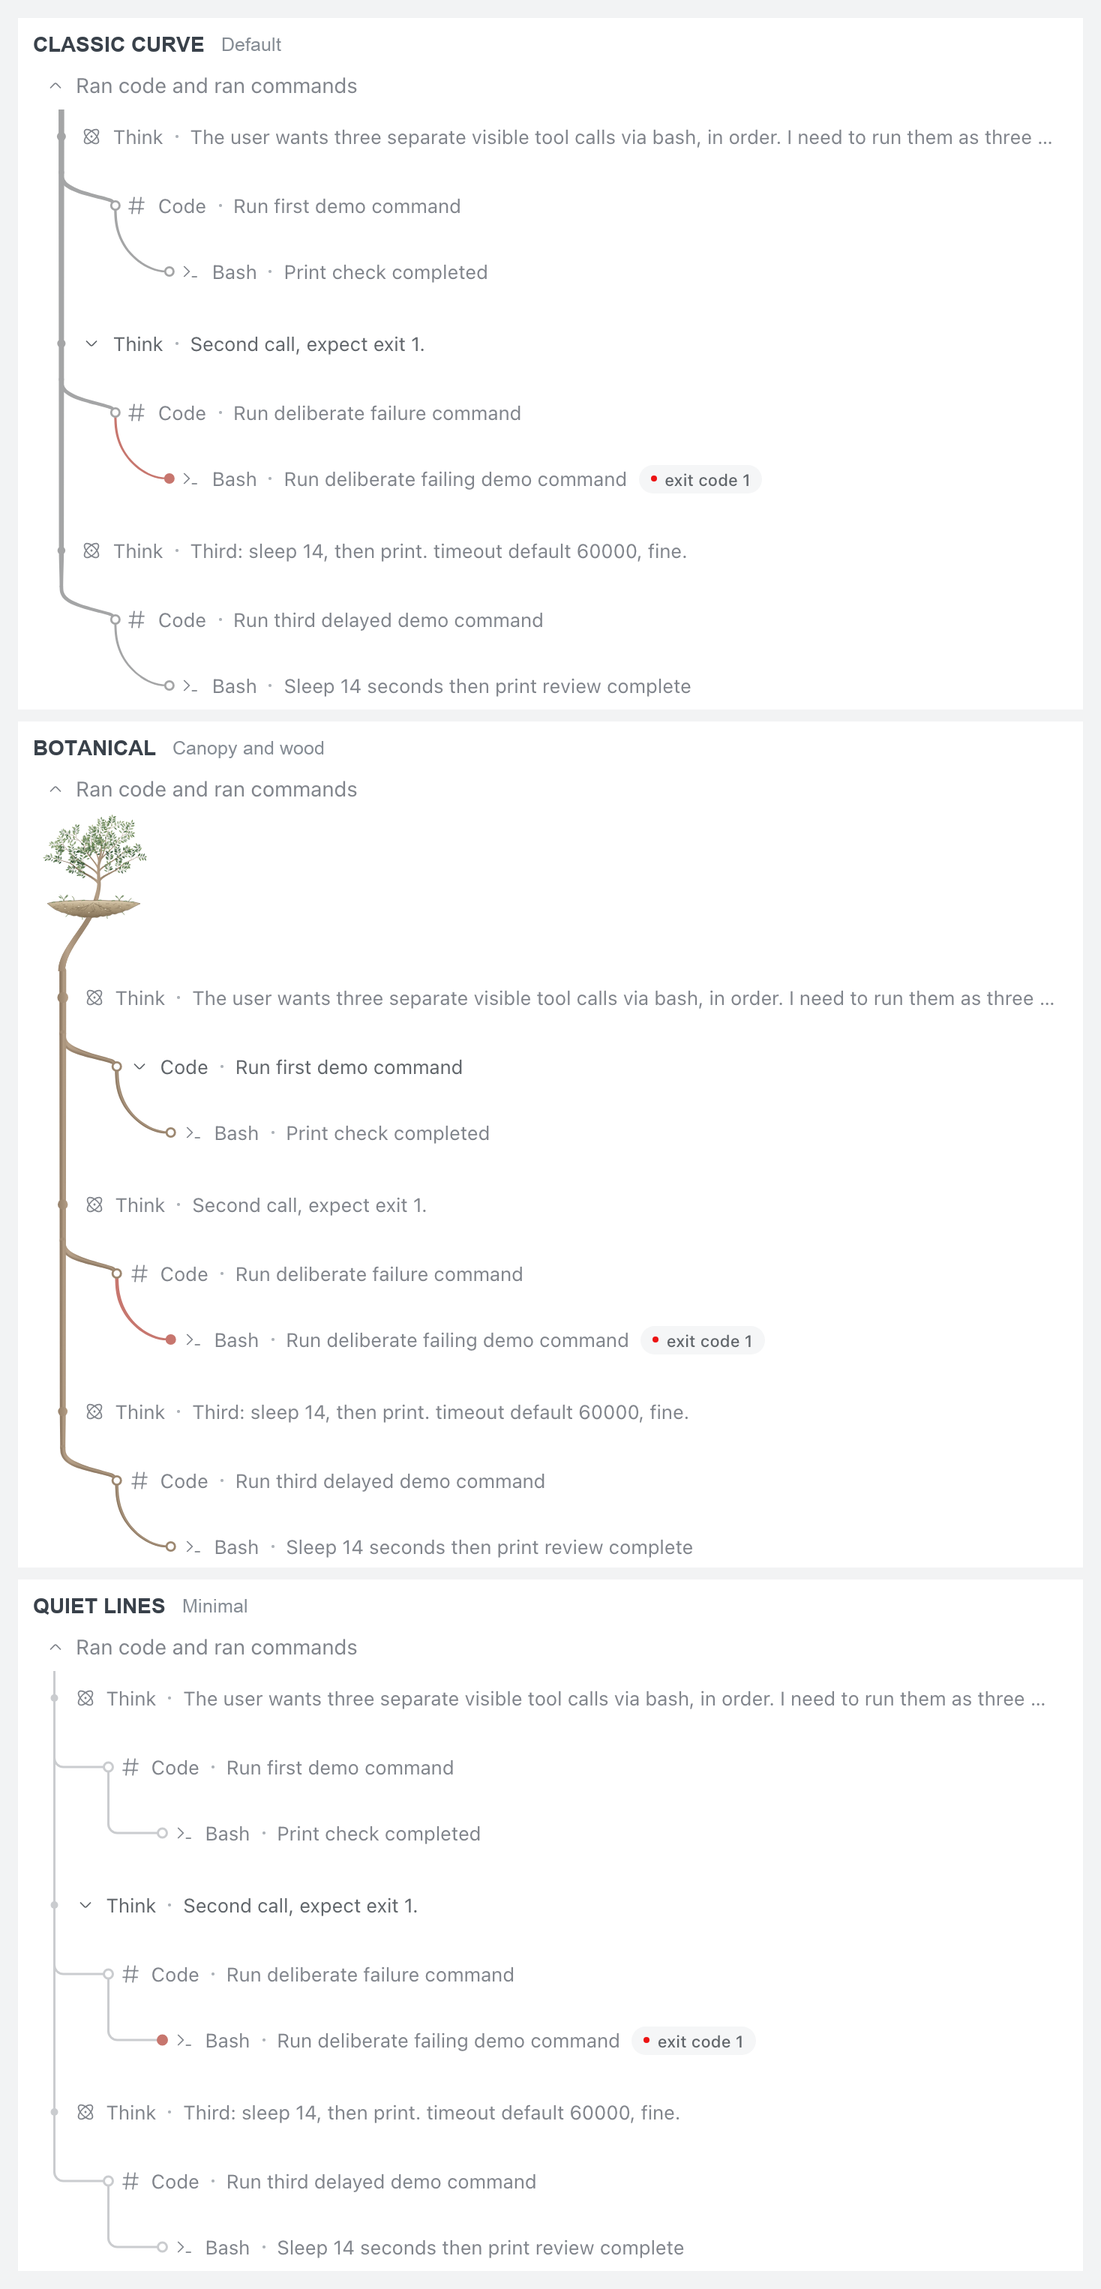
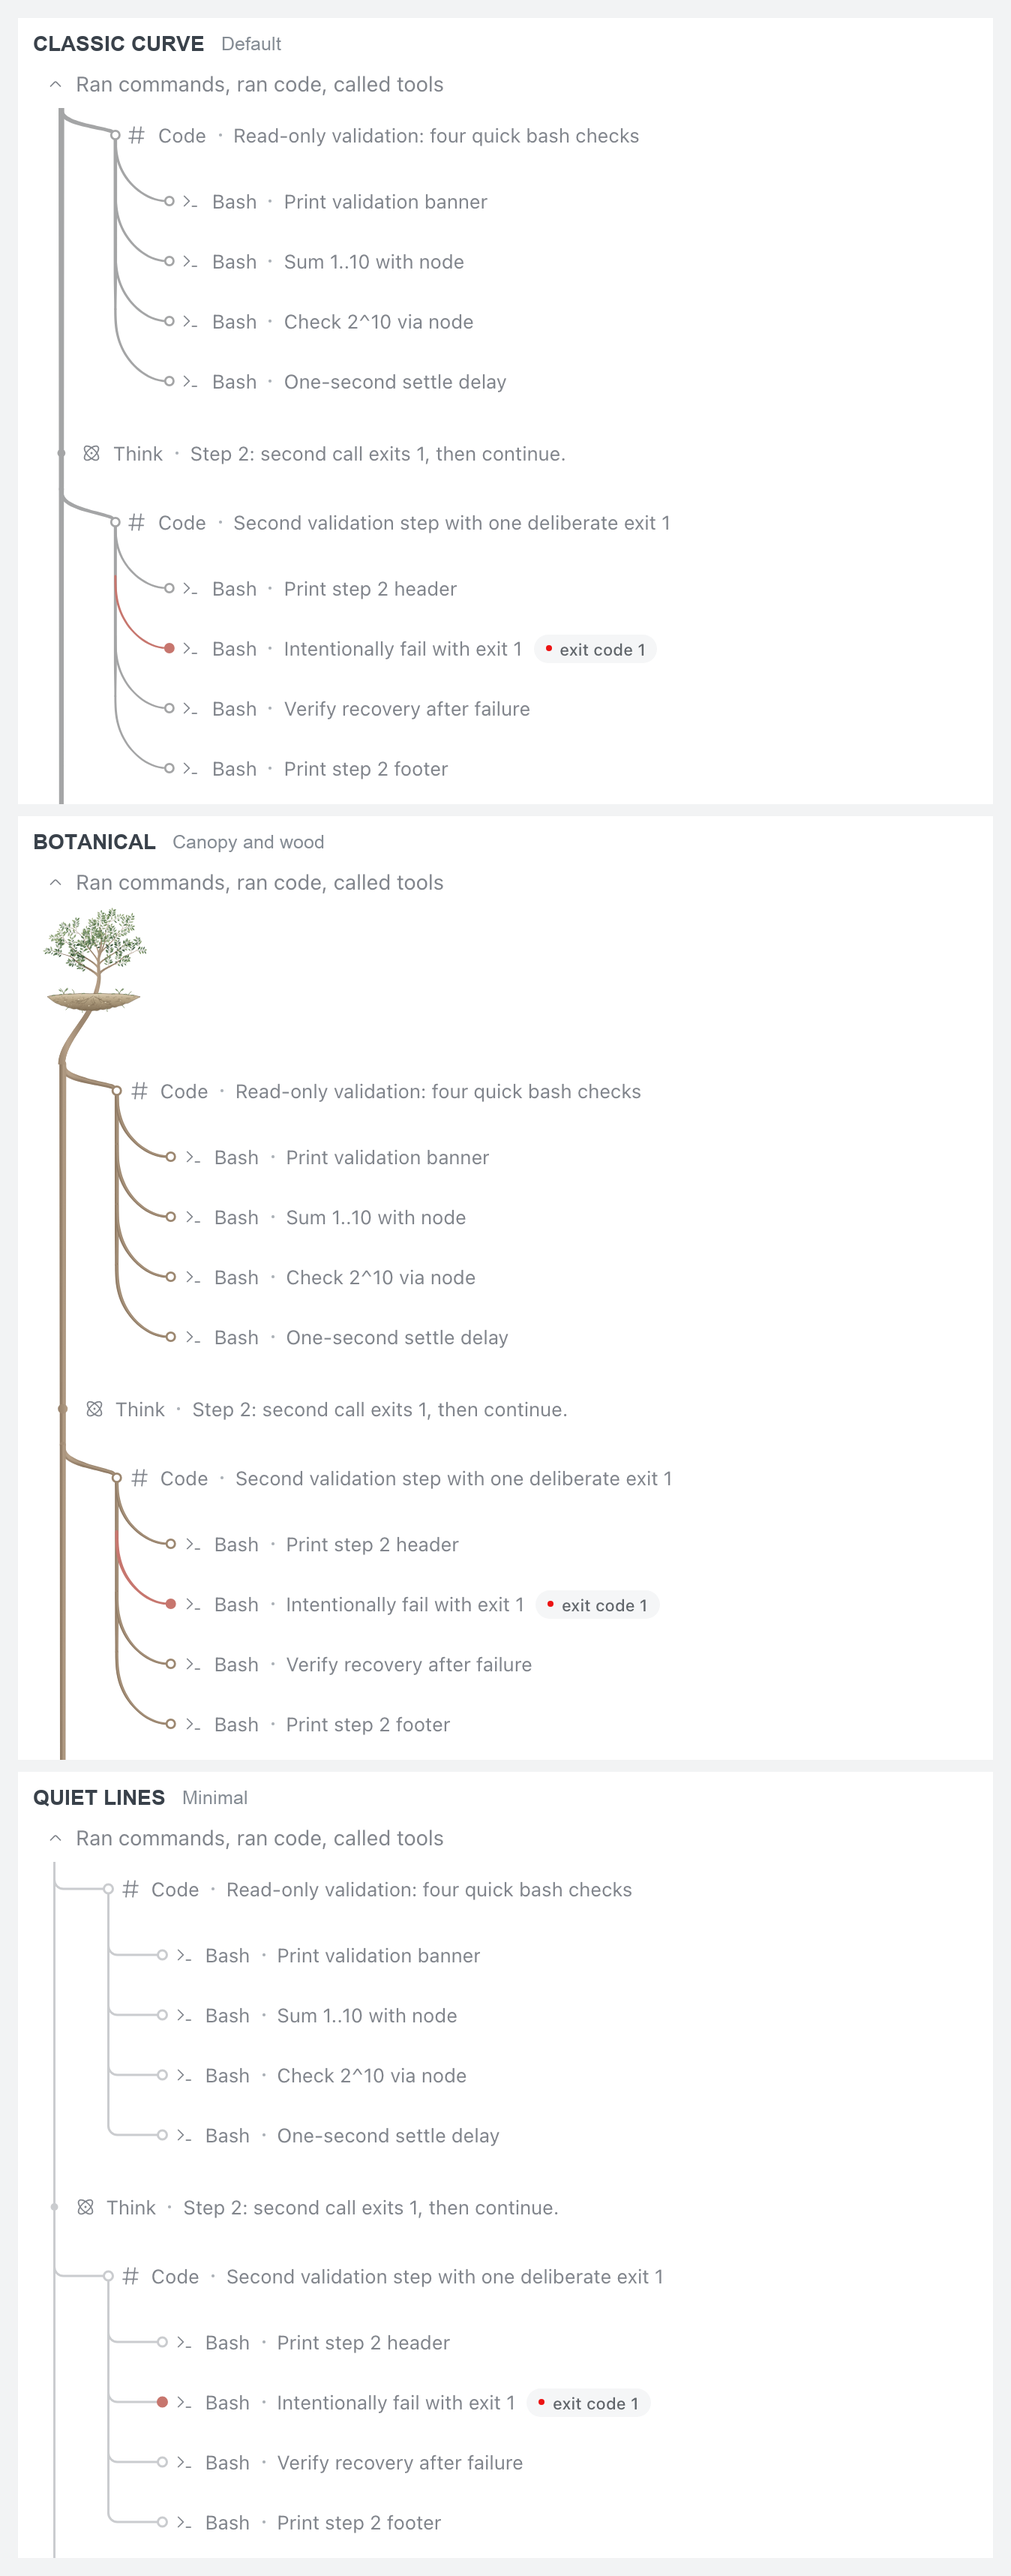
Refresh README screenshots and remove animation

diff --git a/README.en.md b/README.en.md
@@ -8,27 +8,23 @@ This community UI plugin targets DSH Web and the Desktop web interface. It does 
 
 ## See it in action
 
-### A tree that grows with the task
-
-A real DSH Desktop conversation runs three read-only commands in sequence. Branches appear with each call; the second command fails deliberately. The GIF plays at 1.5× speed.
-
-![A process tree growing as tools run in a real DSH conversation](docs/images/process-tree-live.gif)
+These examples come from a real DSH Desktop conversation with three read-only steps and several nested calls; one check fails deliberately.
 
 ### Three styles
 
-The same conversation shown from top to bottom in **classic curve**, **botanical**, and **quiet lines**. The botanical image stitches together scroll captures to show the complete tree.
+The same branching excerpt shown from top to bottom in **classic curve**, **botanical**, and **quiet lines**.
 
 ![The same process in classic, botanical, and quiet styles](docs/images/process-tree-styles.png)
 
 ### Light and dark
 
-The same conversation in the botanical style, shown in both interface themes:
+The same multi-branch process in the botanical style, shown in both interface themes:
 
 ![The same process tree side by side in light and dark mode](docs/images/process-tree-themes.png)
 
 ### Before and after
 
-The same records without the plugin on the left, and with Process Tree's default classic curves on the right.
+The same records without the plugin above, and with Process Tree's default classic curves below.
 
 ![The same task before and after installing Process Tree](docs/images/process-tree-before-after.png)
 
@@ -38,7 +34,7 @@ Hollow dots mark completed tool steps, red marks the intentional failure, and bl
 
 ![Completed, failed and running nodes in the same task](docs/images/process-tree-states.png)
 
-The GIF and state image were captured from a dedicated Desktop demo. The style and comparison images replay sanitized records from that conversation in an isolated DSH Web instance. Images use the appearance settings selected at capture time; state colors are customizable.
+The state image was captured from a dedicated Desktop demo. The style and comparison images replay sanitized records from that conversation in an isolated DSH Web instance and stitch scroll captures to show the nested branches. Images use the appearance settings selected at capture time; state colors are customizable.
 
 ## Install
 

diff --git a/README.md b/README.md
@@ -8,29 +8,25 @@
 
 ## 效果预览
 
-### 跟着任务生长
-
-一段真实的 DSH 桌面对话：任务依次运行三个只读命令，分支随调用出现；第二步是有意设置的失败。动图以 1.5 倍速播放。
-
-![真实 DSH 对话中，过程树随着工具调用逐步生长](docs/images/process-tree-live.gif)
+以下示例来自一段真实的 DSH 桌面对话：三组只读任务分别展开多个嵌套调用，其中一项有意失败。
 
 ### 三种风格
 
-同一段对话从上到下依次展示**经典曲线**、**植物手稿**和**安静线条**。植物手稿画面由滚动截图拼接，以展示完整过程。
+同一段对话的多分支片段，从上到下依次展示**经典曲线**、**植物手稿**和**安静线条**。
 
 ![同一过程分别使用经典曲线、植物手稿和安静线条](docs/images/process-tree-styles.png)
 
 ### 浅色与深色
 
-同一段对话使用植物手稿风格，在两种界面外观下的效果：
+同一段多分支过程使用植物手稿风格，在两种界面外观下的效果：
 
 ![同一过程树在浅色和深色模式下的并排对比](docs/images/process-tree-themes.png)
 
 ### 安装前后
 
-左侧为未安装插件的原始过程，右侧为安装过程树后使用默认经典曲线的相同记录。
+上方为未安装插件的原始过程，下方为安装过程树后使用默认经典曲线的相同记录。
 
-![同一任务安装插件前后的并排对比](docs/images/process-tree-before-after.png)
+![同一任务安装插件前后的上下对比](docs/images/process-tree-before-after.png)
 
 ### 同时看见不同状态
 
@@ -38,7 +34,7 @@
 
 ![同一任务中已完成、失败和运行中的节点](docs/images/process-tree-states.png)
 
-动图和状态图录自专门创建的桌面演示会话；风格与对比图使用该会话的脱敏记录，在隔离的 DSH Web 实例中回放。图片按采集时的外观设置展示；状态颜色可以自定义。
+状态图截取自专门创建的桌面演示会话；风格与对比图使用该会话的脱敏记录，在隔离的 DSH Web 实例中回放，并拼接滚动截图以展示多层分支。图片按采集时的外观设置展示；状态颜色可以自定义。
 
 ## 安装
 
